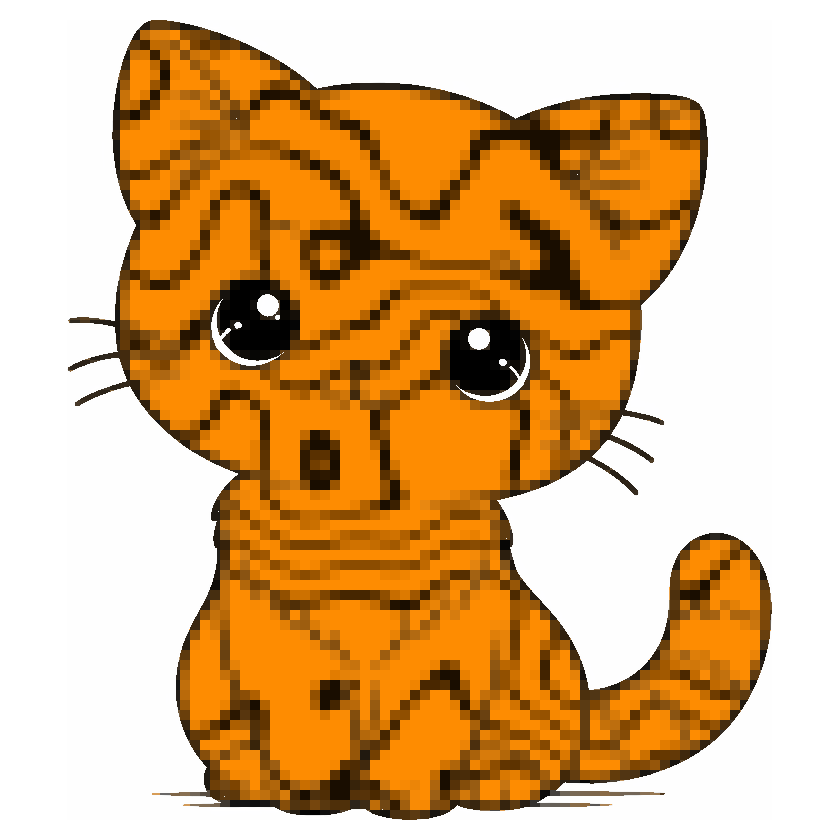
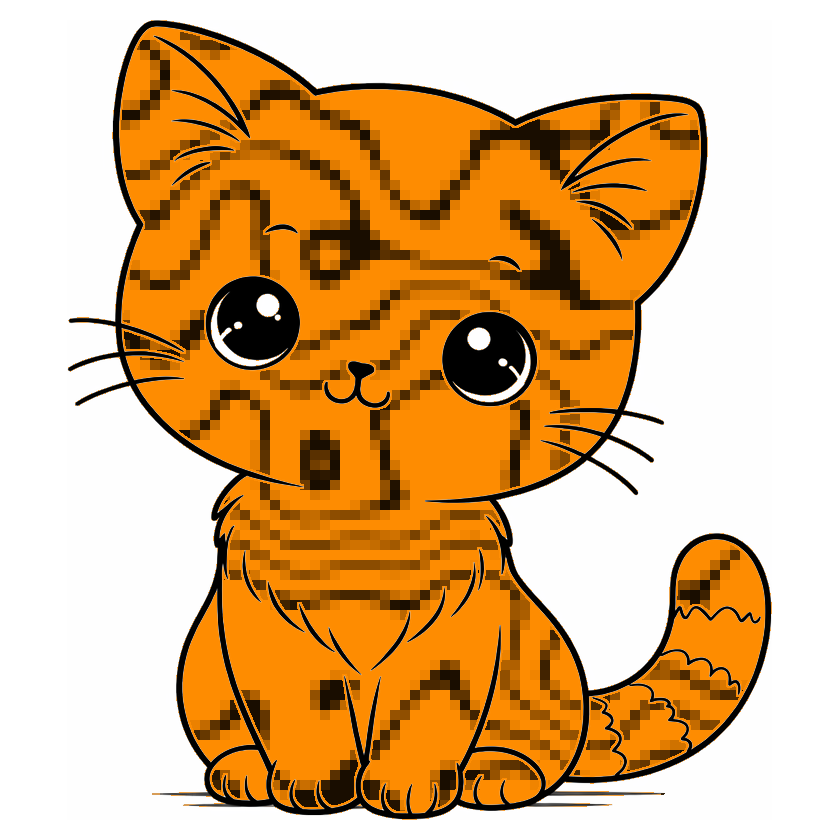
Preserve detail buffer through pixelization pass
Detail buffer pixels are now excluded from pixel block averaging,
so the clean quant-colored border around outlines survives the
pixelization effect instead of getting blurred away.

https://claude.ai/code/session_01Y1zeYokrXQCEx2qjFvhX8B

diff --git a/excat.py b/excat.py
@@ -446,34 +446,43 @@ CAT_STYLES = {
 }
 
 
-def pixelize_interior(img: Image.Image, bg_mask: list[list[bool]], block_size: int = 8) -> Image.Image:
-    """Pixelize only the interior (non-masked) pixels of the image."""
+def pixelize_interior(
+    img: Image.Image,
+    bg_mask: list[list[bool]],
+    detail_buf: list[list[bool]],
+    block_size: int = 8,
+) -> Image.Image:
+    """Pixelize only the interior (non-masked) pixels of the image.
+
+    Detail buffer pixels are excluded from averaging so the clean
+    quant-colored border around outlines is preserved.
+    """
     result = img.copy()
     pixels = result.load()
     w, h = img.size
 
     for by in range(0, h, block_size):
         for bx in range(0, w, block_size):
-            # Collect interior pixels in this block
-            interior_pixels = []
-            interior_coords = []
+            # Collect pixels eligible for pixelization (interior, not detail buffer)
+            block_pixels = []
+            block_coords = []
             for y in range(by, min(by + block_size, h)):
                 for x in range(bx, min(bx + block_size, w)):
-                    if not bg_mask[y][x]:
-                        interior_pixels.append(pixels[x, y])
-                        interior_coords.append((x, y))
+                    if not bg_mask[y][x] and not detail_buf[y][x]:
+                        block_pixels.append(pixels[x, y])
+                        block_coords.append((x, y))
 
-            if not interior_pixels:
+            if not block_pixels:
                 continue
 
-            # Average the interior pixels in this block
-            avg_r = sum(p[0] for p in interior_pixels) // len(interior_pixels)
-            avg_g = sum(p[1] for p in interior_pixels) // len(interior_pixels)
-            avg_b = sum(p[2] for p in interior_pixels) // len(interior_pixels)
-            avg_a = sum(p[3] for p in interior_pixels) // len(interior_pixels)
+            # Average the eligible pixels in this block
+            avg_r = sum(p[0] for p in block_pixels) // len(block_pixels)
+            avg_g = sum(p[1] for p in block_pixels) // len(block_pixels)
+            avg_b = sum(p[2] for p in block_pixels) // len(block_pixels)
+            avg_a = sum(p[3] for p in block_pixels) // len(block_pixels)
 
-            # Set all interior pixels in the block to the average
-            for x, y in interior_coords:
+            # Set only eligible pixels to the average
+            for x, y in block_coords:
                 pixels[x, y] = (avg_r, avg_g, avg_b, avg_a)
 
     return result
@@ -593,7 +602,7 @@ def generate_excat(
     # Optional pixelization pass
     if pixel_size > 0:
         print(f"Pixelizing with block size {pixel_size}...")
-        result = pixelize_interior(result, bg_mask, pixel_size)
+        result = pixelize_interior(result, bg_mask, detail_buf, pixel_size)
 
     result.save(output_path)
     print(f"\nSaved to {output_path} ({side}x{side}px)")
